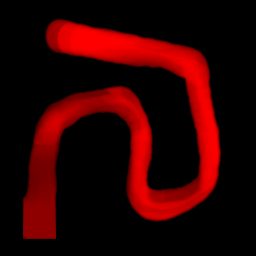
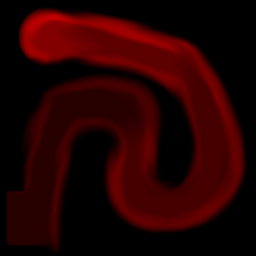
new level and tune superpower

diff --git a/src/main.rs b/src/main.rs
@@ -316,7 +316,6 @@ fn run() -> Result<()> {
                     collide_bits: body::BODY_COLLIDE_PLAYER,
                     ..body::BodyConfig::default() }
         );
-    player.borrow_mut().set_position(settings.get_vec3("player"));
     player.borrow_mut().set_finite_rotation_mode(true);
 
     let level_map = texture::load_image("level2.png").chain_err(|| "failed to load level")?;
@@ -329,6 +328,18 @@ fn run() -> Result<()> {
         let id = body.borrow().id;
         id
     };
+    // set player position to 20, 20 and read height from heightfield
+    // player.borrow_mut().set_position(settings.get_vec3("player"));
+    {
+        let reso = world.borrow_mut()
+            .heightfield_resolution;
+
+        player.borrow_mut()
+            .set_position(Vec3::new(20.0 / scale - reso.0 as f32 * scale / 2.0,
+                                    world.borrow_mut().heightfield[((20.0 / scale) * reso.0 as f32 + 20.0 / scale) as usize] +
+                                    5.0,
+                                    20.0 / scale - reso.1 as f32 * scale / 2.0));
+    }
 
     let diamonds = Rc::new(RefCell::new(Vec::new()));
     let mut diams_tot = 0;
@@ -460,8 +471,8 @@ fn run() -> Result<()> {
     ino.add_watch(Path::new("src"), IN_MODIFY | IN_CREATE | IN_DELETE)
         .chain_err(|| "failed to add inotify watch")?;
 
-    let mixer = Rc::new(AudioMixer::new("duunimusa2.ogg")
-        .chain_err(|| "failed to initialize audio")?);
+    let mixer =
+        Rc::new(AudioMixer::new("duunimusa2.ogg").chain_err(|| "failed to initialize audio")?);
     let jump_sound = JumpSound::new().chain_err(|| "failed to load jump sound")?;
     let hit_sound = Rc::new(HitSound::new().chain_err(|| "failed to load hit sound")?);
     let diamond_sounds = vec![
@@ -582,7 +593,7 @@ fn run() -> Result<()> {
 
     let force_mag_duration = 10 * 1000;
     let mut force_mag_end = sdl_timer.ticks();
-    
+
     let mut endtime = 0;
 
     'mainloop: loop {
@@ -855,7 +866,11 @@ fn run() -> Result<()> {
         nanovg.font_face("main");
         nanovg.stroke_color(nanovg::Color::rgba(255, 255, 255, 255));
         nanovg.fill_color(nanovg::Color::rgba(255, 255, 255, 255));
-        let playtime = if endtime == 0 { sdl_timer.ticks() } else { endtime } as f32 / 1000.0;
+        let playtime = if endtime == 0 {
+            sdl_timer.ticks()
+        } else {
+            endtime
+        } as f32 / 1000.0;
         nanovg.text(20.0,
                     90.0,
                     &format!("diamonds {}/{} time {:.2} s",

diff --git a/src/world.rs b/src/world.rs
@@ -3,6 +3,7 @@ use glium;
 use glium::backend::Facade;
 use mesh::Mesh;
 use ode;
+use na::Norm;
 use std;
 use math::*;
 use std::rc::Rc;
@@ -243,7 +244,8 @@ impl World {
     pub fn setup_heightfield<F: Facade>(&mut self,
                                         f: &F,
                                         texture: &glium::texture::RawImage2d<'static, u8>,
-                                        visible_texture: Rc<texture::Texture>) -> Rc<RefCell<Body>> {
+                                        visible_texture: Rc<texture::Texture>)
+                                        -> Rc<RefCell<Body>> {
 
         // create mesh based on texture
 
@@ -344,11 +346,14 @@ impl World {
             self.leftover_dt -= PHYS_DT;
             self.accum_dt += PHYS_DT;
 
-            if player_action {
+            if player_action || true {
                 // self.heightfield_velocity[p] += 1.0;
+                let player_velocity = self.bodies[0].borrow_mut().get_linear_velocity();
+                let effect_position = player_position - player_velocity.normalize() * 7.0;
+                let amplitude = Vec3::new(player_velocity.x, 0.0, player_velocity.z).norm() / 300.0;
 
                 let offset =
-                    player_position +
+                    effect_position +
                     Vec3::new(self.heightfield_resolution.0 as f32 *
                               self.heightfield_scale as f32 * 0.5,
                               0.0,
@@ -356,14 +361,14 @@ impl World {
                               self.heightfield_scale as f32 * 0.5);
 
 
-                for xx in -10..11 {
-                    for zz in -10..11 {
+                for xx in -5..6 {
+                    for zz in -5..6 {
                         let xcoord = (offset.x / self.heightfield_scale).floor() as i32 + xx;
                         let zcoord = (offset.z / self.heightfield_scale).floor() as i32 + zz;
                         let p = xcoord + zcoord * self.heightfield_resolution.0 as i32;
                         if p >= 0 && (p as usize) < self.heightfield.len() {
-                            self.heightfield_velocity[p as usize] -=
-                                0.5 * 1.0 / (1.0 + (xx * xx + zz * zz) as f32);
+                            self.heightfield_velocity[p as usize] +=
+                                amplitude * 1.0 / (1.0 + (xx * xx + zz * zz) as f32);
                         }
                     }
                 }

diff --git a/src/texture.rs b/src/texture.rs
@@ -33,8 +33,8 @@ pub fn load_texture<F: Facade, P: AsRef<Path> + ?Sized>(facade: &F, path: &P) ->
 }
 
 pub fn load_texture_array<F: Facade, P: AsRef<Path> + ?Sized>(facade: &F,
-                                                               paths: &[&P])
-                                                               -> Result<Texture> {
+                                                              paths: &[&P])
+                                                              -> Result<Texture> {
     let raw: Result<Vec<RawImage2d<'static, u8>>> = paths.iter().map(|&p| load_image(p)).collect();
     let raw = raw?;
 

diff --git a/src/mesh.rs b/src/mesh.rs
@@ -104,7 +104,9 @@ impl Mesh {
         for x in 0..width {
             for z in 0..depth {
                 let hmp = (z * width + x) as usize;
-                heightfield[hmp] = texture.data[hmp * 4] as f32 / 256.0 * 64.0 * scale;
+                let h = texture.data[hmp * 4] as f32 / 256.0 * 64.0 * scale;
+                let h = if h < 1.0 { -400.0 } else { h };
+                heightfield[hmp] = h;
             }
         }
 
